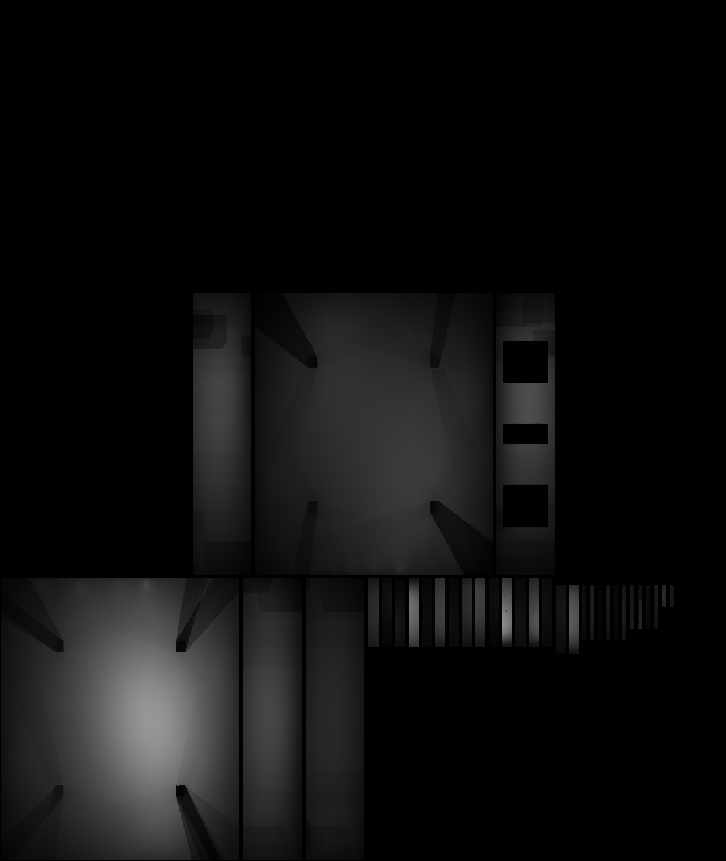
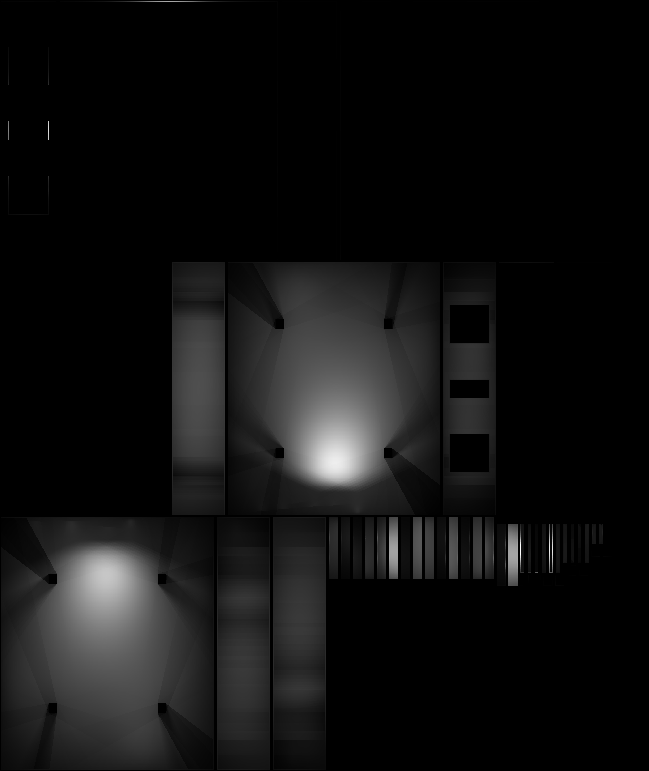
use openrl ray tracing get visibility and split light primitive

diff --git a/Source/Framework/Editor/Windows/WindowsEditor.cpp b/Source/Framework/Editor/Windows/WindowsEditor.cpp
@@ -1,4 +1,6 @@
 #include "WindowsEditor.h"
+
+#include <DirectXMath.h>
 #include <SDL/SDL_filesystem.h>
 #include "../../../Helper/TextureOperator.h"
 #include "../3rdParty/LinearLeastSquaresStitch/Sitich.h"
@@ -74,84 +76,78 @@ namespace Core
 		
 		m_areaLightMesh = std::make_shared<StaticMesh>();
 
-		m_areaLightMesh->vertexCount = 6;
+		int32 XCount = 8;
+		int32 YCount = 8;
+		float XCountF = static_cast<float>(XCount);
+		float YCountF = static_cast<float>(XCount);
+
+		m_areaLightMesh->vertexCount = XCount * YCount * 6;
 		m_areaLightMesh->pPositions = new Vector4[m_areaLightMesh->vertexCount];
 		m_areaLightMesh->pNormals = new Vector3[m_areaLightMesh->vertexCount];
 		m_areaLightMesh->pUV0s = new Vector2[m_areaLightMesh->vertexCount];
 		m_areaLightMesh->pUV1s = new Vector2[m_areaLightMesh->vertexCount];
 		
-		float lightScale = 10.0f;
-
-		m_areaLightMesh->pPositions[0].x = -0.5f * lightScale;
-		m_areaLightMesh->pPositions[0].y = -0.5f * lightScale ;
-		m_areaLightMesh->pPositions[0].z = 0;
-		m_areaLightMesh->pPositions[0].w = 1.0f;
-		m_areaLightMesh->pNormals[0].x = 0;
-		m_areaLightMesh->pNormals[0].y = 0;
-		m_areaLightMesh->pNormals[0].z = 1.0f;
-		m_areaLightMesh->pUV0s[0] = Vector2(0, 0);
-		m_areaLightMesh->pUV1s[0] = Vector2(0, 0);
-		
-		m_areaLightMesh->pPositions[1].x = 0.5f * lightScale;
-		m_areaLightMesh->pPositions[1].y = -0.5f * lightScale ;
-		m_areaLightMesh->pPositions[1].z = 0;
-		m_areaLightMesh->pPositions[1].w = 1.0f;
-		m_areaLightMesh->pNormals[1].x = 0;
-		m_areaLightMesh->pNormals[1].y = 0;
-		m_areaLightMesh->pNormals[1].z = 1.0f;
-		m_areaLightMesh->pUV0s[1] = Vector2(1.0, 0);
-		m_areaLightMesh->pUV1s[1] = Vector2(1.0, 0);
-
-		m_areaLightMesh->pPositions[2].x = 0.5f * lightScale;
-		m_areaLightMesh->pPositions[2].y = 0.5f * lightScale ;
-		m_areaLightMesh->pPositions[2].z = 0;
-		m_areaLightMesh->pPositions[2].w = 1.0f;
-		m_areaLightMesh->pNormals[2].x = 0;
-		m_areaLightMesh->pNormals[2].y = 0;
-		m_areaLightMesh->pNormals[2].z = 1.0f;
-		m_areaLightMesh->pUV0s[2] = Vector2(1.0f, 1.0f);
-		m_areaLightMesh->pUV1s[2] = Vector2(1.0f, 1.0f);
-
-		m_areaLightMesh->pPositions[3].x = 0.5f * lightScale;
-		m_areaLightMesh->pPositions[3].y = 0.5f * lightScale ;
-		m_areaLightMesh->pPositions[3].z = 0;
-		m_areaLightMesh->pPositions[3].w = 1.0f;
-		m_areaLightMesh->pNormals[3].x = 0;
-		m_areaLightMesh->pNormals[3].y = 0;
-		m_areaLightMesh->pNormals[3].z = 1.0f;
-		m_areaLightMesh->pUV0s[3] = Vector2(1.0f, 1.0f);
-		m_areaLightMesh->pUV1s[3] = Vector2(1.0f, 1.0f);
-
-		m_areaLightMesh->pPositions[4].x = -0.5f * lightScale;
-		m_areaLightMesh->pPositions[4].y = 0.5f * lightScale ;
-		m_areaLightMesh->pPositions[4].z = 0;
-		m_areaLightMesh->pPositions[4].w = 1.0f;
-		m_areaLightMesh->pNormals[4].x = 0;
-		m_areaLightMesh->pNormals[4].y = 0;
-		m_areaLightMesh->pNormals[4].z = 1.0f;
-		m_areaLightMesh->pUV0s[4] = Vector2(0, 1.0f);
-		m_areaLightMesh->pUV1s[4] = Vector2(0, 1.0f);
-
-		m_areaLightMesh->pPositions[5].x = -0.5f * lightScale;
-		m_areaLightMesh->pPositions[5].y = -0.5f * lightScale ;
-		m_areaLightMesh->pPositions[5].z = 0;
-		m_areaLightMesh->pPositions[5].w = 1.0f;
-		m_areaLightMesh->pNormals[5].x = 0;
-		m_areaLightMesh->pNormals[5].y = 0;
-		m_areaLightMesh->pNormals[5].z = 1.0f;
-		m_areaLightMesh->pUV0s[5] = Vector2(0, 0);
-		m_areaLightMesh->pUV1s[5] = Vector2(0, 0);
-
-		m_areaLightMesh->indexCount = 6;
+		m_areaLightMesh->indexCount = XCount * YCount * 6;
 		m_areaLightMesh->pIndices = new uint32[m_areaLightMesh->indexCount];
 		
-		m_areaLightMesh->pIndices[0] = 0;
-		m_areaLightMesh->pIndices[1] = 1;
-		m_areaLightMesh->pIndices[2] = 2;
-		m_areaLightMesh->pIndices[3] = 3;
-		m_areaLightMesh->pIndices[4] = 4;
-		m_areaLightMesh->pIndices[5] = 5;
+		float lightScale = 10.0f;
+		int32 VertexCursor = 0;
 		
+		for (int32 i = 0; i < YCount; ++i)
+		{ 
+			for (int j = 0; j < XCount; ++j)
+			{
+				Vector4 P0 = Vector4(-XCount / 2 +  j, -YCount / 2 + i, 0, 1.0);
+				Vector4 P1 = Vector4(-XCount / 2 +  j + 1, -YCount / 2 + i, 0, 1.0);
+				Vector4 P2 = Vector4(-XCount / 2 +  j, -YCount / 2 + i + 1, 0, 1.0);
+
+				Vector4 P3 = Vector4(-XCount / 2 +  j + 1, -YCount / 2, 0, 1.0);
+				Vector4 P4 = Vector4(-XCount / 2 +  j + 1, -YCount / 2 + i + 1, 0, 1.0);
+				Vector4 P5 = Vector4(-XCount / 2 +  j, -YCount / 2 + i + 1, 0, 1.0);
+
+				m_areaLightMesh->pPositions[VertexCursor] = P0;
+				m_areaLightMesh->pNormals[VertexCursor] = Vector3(0, 0, 1.0);
+				m_areaLightMesh->pUV0s[VertexCursor] = Vector2((i + 0.0f) / XCountF, (j + 0.0f) / YCountF);
+				m_areaLightMesh->pUV1s[VertexCursor] = Vector2((i + 1.0f) / XCountF, (j + 0.0f) / YCountF);
+				m_areaLightMesh->pIndices[VertexCursor] = VertexCursor;
+				++VertexCursor;
+				
+				m_areaLightMesh->pPositions[VertexCursor] = P1;
+				m_areaLightMesh->pNormals[VertexCursor] = Vector3(0, 0, 1.0);
+				m_areaLightMesh->pUV0s[VertexCursor] = Vector2((i + 1.0f) / XCountF, (j + 0.0f) / YCountF);
+				m_areaLightMesh->pUV1s[VertexCursor] = Vector2((i + 1.0f) / XCountF, (j + 0.0f) / YCountF);
+				m_areaLightMesh->pIndices[VertexCursor] = VertexCursor;
+				++VertexCursor;
+
+				m_areaLightMesh->pPositions[VertexCursor] = P2;
+				m_areaLightMesh->pNormals[VertexCursor] = Vector3(0, 0, 1.0);
+				m_areaLightMesh->pUV0s[VertexCursor] = Vector2((i + 0.0f) / XCountF, (j + 1.0f) / YCountF);
+				m_areaLightMesh->pUV1s[VertexCursor] = Vector2((i + 0.0f) / XCountF, (j + 1.0f) / YCountF);
+				m_areaLightMesh->pIndices[VertexCursor] = VertexCursor;
+				++VertexCursor;
+				
+				m_areaLightMesh->pPositions[VertexCursor] = P3;
+				m_areaLightMesh->pNormals[VertexCursor] = Vector3(0, 0, 1.0);
+				m_areaLightMesh->pUV0s[VertexCursor] = Vector2((i + 1.0f) / XCountF, (j + 0.0f) / YCountF);
+				m_areaLightMesh->pUV1s[VertexCursor] = Vector2((i + 1.0f) / XCountF, (j + 0.0f) / YCountF);
+				m_areaLightMesh->pIndices[VertexCursor] = VertexCursor;
+				++VertexCursor;
+
+				m_areaLightMesh->pPositions[VertexCursor] = P4;
+				m_areaLightMesh->pNormals[VertexCursor] = Vector3(0, 0, 1.0);
+				m_areaLightMesh->pUV0s[VertexCursor] = Vector2((i + 1.0f) / XCountF, (j + 1.0f) / YCountF);
+				m_areaLightMesh->pUV1s[VertexCursor] = Vector2((i + 1.0f) / XCountF, (j + 1.0f) / YCountF);
+				m_areaLightMesh->pIndices[VertexCursor] = VertexCursor;
+				++VertexCursor;
+
+				m_areaLightMesh->pPositions[VertexCursor] = P5;
+				m_areaLightMesh->pNormals[VertexCursor] = Vector3(0, 0, 1.0);
+				m_areaLightMesh->pUV0s[VertexCursor] = Vector2((i + 0.0f) / XCountF, (j + 0.0f) / YCountF);
+				m_areaLightMesh->pUV1s[VertexCursor] = Vector2((i + 0.0f) / XCountF, (j + 0.0f) / YCountF);
+				m_areaLightMesh->pIndices[VertexCursor] = VertexCursor;
+				++VertexCursor;
+			}
+		}
 		//////////////////////////////////////////////////////////////////////////
 		m_postprocessMesh = std::make_shared<StaticMesh>();
 		m_postprocessMesh->pPositions = new Vector4[3];
@@ -1250,6 +1246,21 @@ namespace Core
 		PrimitiveMesh->pPositions[0] = Primitive.Positions[0];
 		PrimitiveMesh->pPositions[1] = Primitive.Positions[1];
 		PrimitiveMesh->pPositions[2] = Primitive.Positions[2];
+
+		//	offset for raycast testing.
+		Vector3 Offset = Primitive.Normal * Vector3(0.1f);
+		
+		PrimitiveMesh->pPositions[0].x += Offset.x;
+		PrimitiveMesh->pPositions[0].y += Offset.y;
+		PrimitiveMesh->pPositions[0].z += Offset.z;
+		
+		PrimitiveMesh->pPositions[1].x += Offset.x;
+		PrimitiveMesh->pPositions[1].y += Offset.y;
+		PrimitiveMesh->pPositions[1].z += Offset.z;
+
+		PrimitiveMesh->pPositions[2].x += Offset.x;
+		PrimitiveMesh->pPositions[2].y += Offset.y;
+		PrimitiveMesh->pPositions[2].z += Offset.z;
 		
 		PrimitiveMesh->pIndices = new uint32[3];
 		PrimitiveMesh->indexCount = 3;
@@ -1764,14 +1775,14 @@ namespace Core
 				BlackData[i * 4 + 3] = 0;
 			}
 			
-			m_RadiosityImage0 = std::make_shared<GLImageTexture>(GLTextureTarget_2D, GLInternalFormat_RGBA32F, GLPixelFormat_RGBA, GLDataType_Float, GLTextureWrapMode_Clamp, GLTextureFilterMode_Point, GLImageUnit_0, 0, GLImageAccess_ReadWrite);
+			m_RadiosityImage0 = std::make_shared<GLImageTexture>(GLTextureTarget_2D, GLInternalFormat_RGBA32F, GLPixelFormat_RGBA, GLDataType_Float, GLTextureWrapMode_Clamp, GLTextureFilterMode_Bilinear, GLImageUnit_0, 0, GLImageAccess_ReadWrite);
 			m_RadiosityImage0->LoadImage(
 			RadiosityTextureWidth,
 			RadiosityTextureHeight,
 			BlackData);
 			BeingBakingObject->glRenderableUnit->ComputeFormFactorMaterial.lock()->RadiosityImage0 = m_RadiosityImage0;
 			
-			m_RadiosityImage1 = std::make_shared<GLImageTexture>(GLTextureTarget_2D, GLInternalFormat_RGBA32F, GLPixelFormat_RGBA, GLDataType_Float, GLTextureWrapMode_Clamp, GLTextureFilterMode_Point, GLImageUnit_1, 0, GLImageAccess_ReadWrite);
+			m_RadiosityImage1 = std::make_shared<GLImageTexture>(GLTextureTarget_2D, GLInternalFormat_RGBA32F, GLPixelFormat_RGBA, GLDataType_Float, GLTextureWrapMode_Clamp, GLTextureFilterMode_Bilinear, GLImageUnit_1, 0, GLImageAccess_ReadWrite);
 			m_RadiosityImage1->LoadImage(
 			RadiosityTextureWidth,
 			RadiosityTextureHeight,
@@ -1811,7 +1822,7 @@ namespace Core
 					++iter)
 			{
 				//	TODO:	这里光源的强度先写死.要实现支持W,还有cd/m^2.
-				iter->second.Energy = Vector4(3.0, 3.0, 3.0, 1.0);
+				iter->second.Energy = Vector4(2.0, 2.0, 2.0, 1.0);
 				iter->second.LightPrimitive = True;
 				RemainingPrimitives.push(iter->second);
 			}
@@ -1869,17 +1880,7 @@ namespace Core
 			Primitive ShootingPrimitive = RemainingPrimitives.front();
 			RemainingPrimitives.pop();
 
-			std::unique_ptr<Object> PrimitiveObject;
-			
-			if (!ShootingPrimitive.LightPrimitive)
-			{
-				BeingBakingObject->SetShootingPrimitive(ShootingPrimitive.ID);
-			}
-			else
-			{
-				PrimitiveObject = CreateObject(ShootingPrimitive);
-				BeingBakingObject->SetShootingPrimitive(-1.0f);
-			}
+			std::unique_ptr<Object> PrimitiveObject = CreateObject(ShootingPrimitive);
 			
 			BeingBakingObject->glRenderableUnit->DrawIDMaterial.lock()->albedoTexture = m_assetManager->textureMap["Sponza_Bricks_a_Albedo"];
 			

diff --git a/Source/Settings/LightmappingSetting.cpp b/Source/Settings/LightmappingSetting.cpp
@@ -8,5 +8,5 @@ namespace Core
 	const float LightmappingSetting::gutter = 4.0f;
 	const int32 LightmappingSetting::paddingSize = 1;
 	const int32 LightmappingSetting::progressivePassCount = 1024;
-	float LightmappingSetting::TexelsPerUnit = 50.0f;
+	float LightmappingSetting::TexelsPerUnit = 40.0f;
 }
